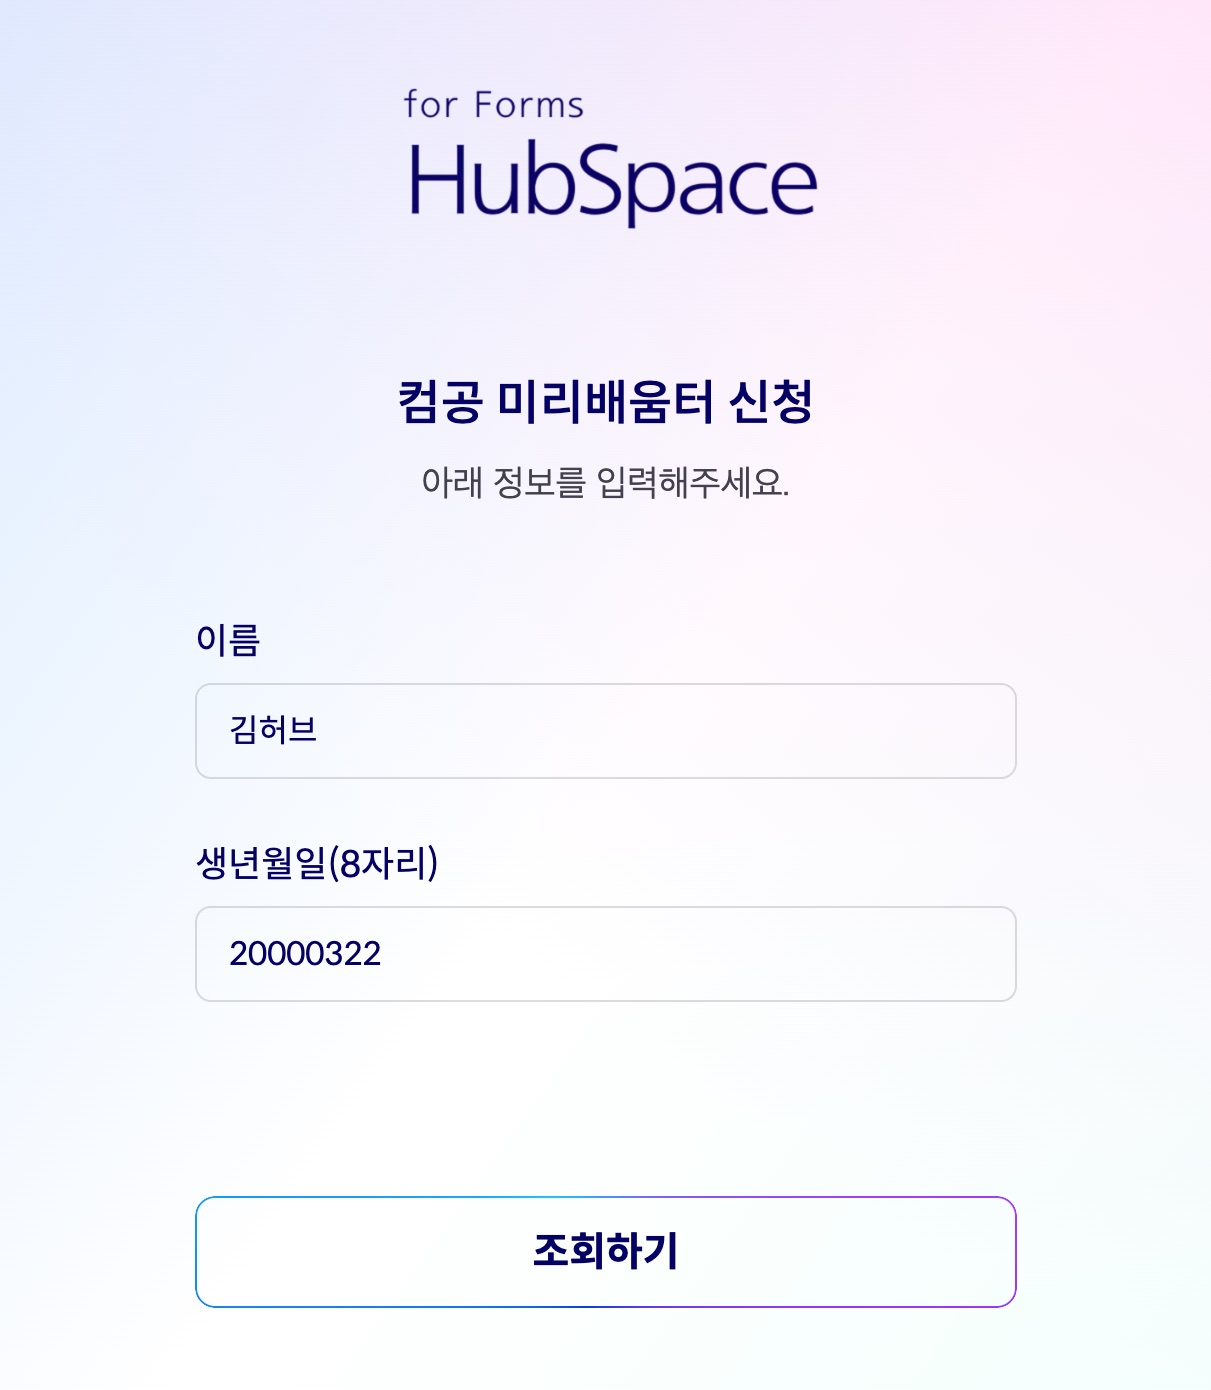
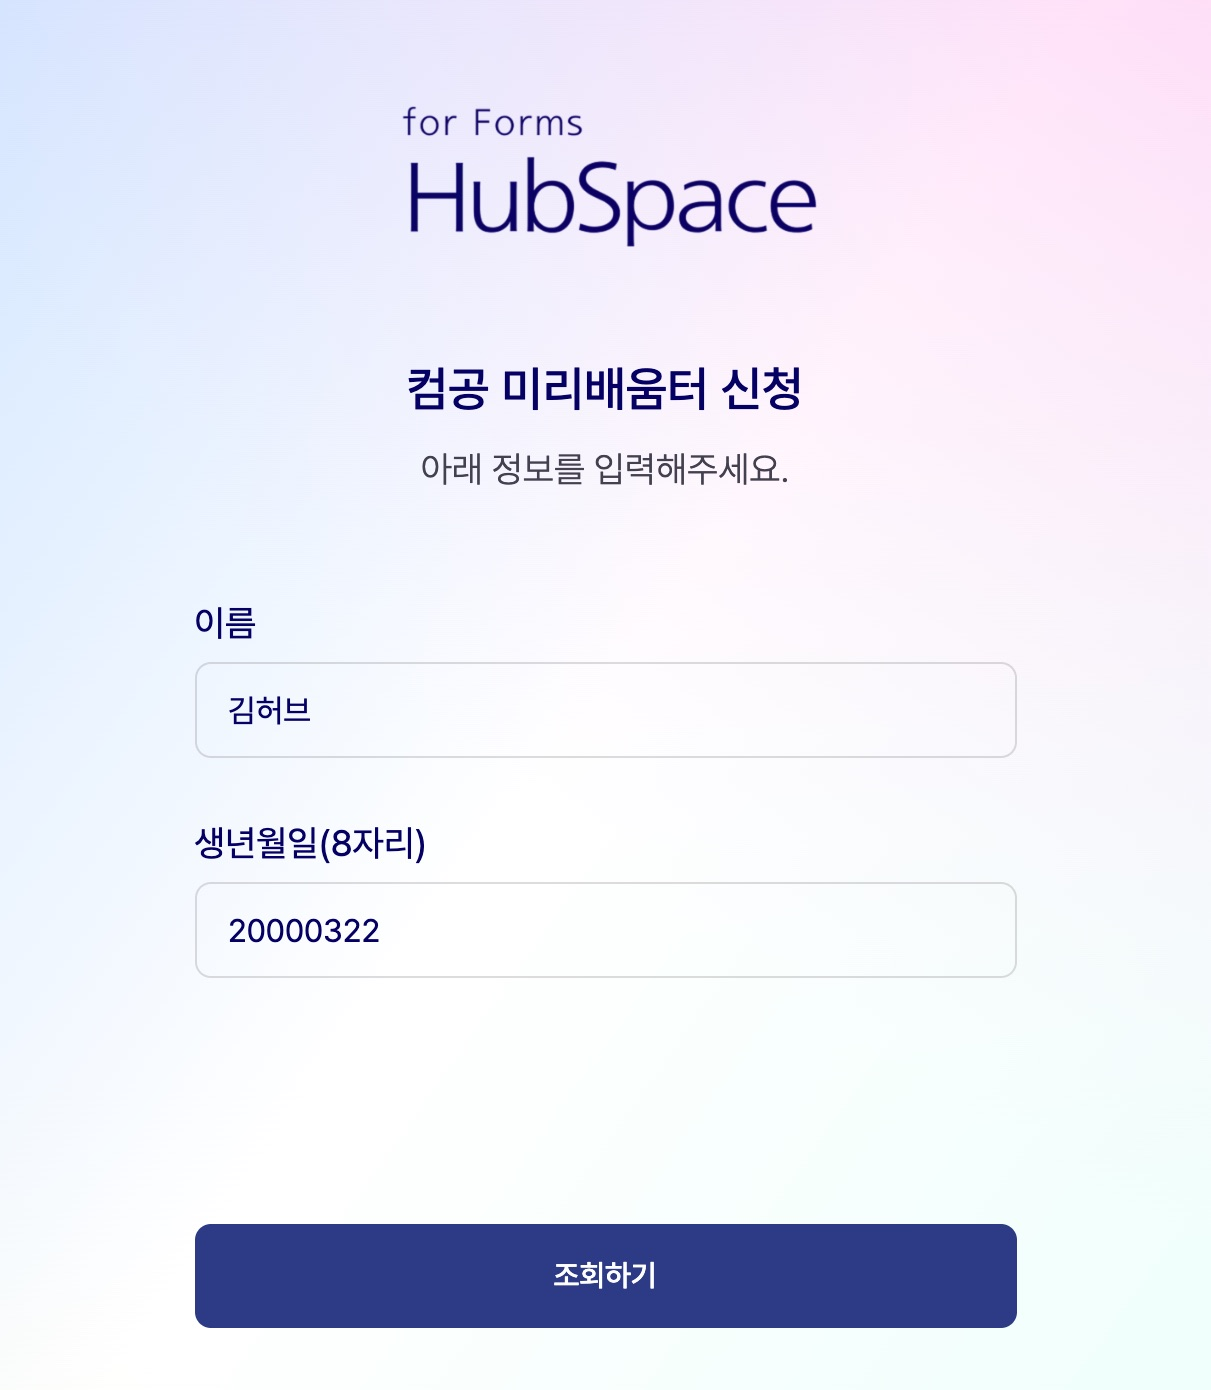
feat: 이용 방법 조회 예시 그림 다크 테마 대응
- 다크 테마에서는 다크 조회 화면·조회 결과를 같은 구도로 찍은 그림을 보여준다.
- 라이트 그림도 현재 조회 화면 디자인으로 다시 찍어 교체한다.

diff --git a/src/pages/guidePage/component/GuideMockups.jsx b/src/pages/guidePage/component/GuideMockups.jsx
@@ -9,6 +9,9 @@ import ArrowRightIcon from '../../../assets/guide/guide-arrow-right.svg?react'
 import ArrowDownIcon from '../../../assets/guide/guide-arrow-down.svg?react'
 import lookupScreenshot from '../../../assets/guide/guide-lookup.jpg'
 import resultScreenshot from '../../../assets/guide/guide-result.jpg'
+// 다크 테마용은 같은 내용을 다크 조회 화면에서 같은 구도로 찍은 그림이다.
+import lookupDarkScreenshot from '../../../assets/guide/guide-lookup-dark.jpg'
+import resultDarkScreenshot from '../../../assets/guide/guide-result-dark.jpg'
 
 // 이용 방법 단계마다 옆에 두는 화면 예시 (Figma 'Components – 이용 방법' 의 Guide Mockup).
 // 실제 화면을 단순하게 옮긴 그림이라 누를 수 없고, 화면 낭독기에서는 GuidePage 가 통째로 숨긴다.
@@ -66,13 +69,16 @@ function EventCard({ type, title }) {
 }
 
 // 조회 화면 → 조회 결과. 데스크탑은 가로, 모바일은 세로로 놓고 화살표도 그에 맞춰 바꾼다.
-export function LookupFlowMockup() {
+// 스크린샷은 테마마다 따로 찍어 두었다.
+export function LookupFlowMockup({ theme }) {
+  const isDark = theme === 'dark'
+
   return (
     <div className='guide-compare'>
       <div className='guide-shot'>
         <span className='guide-shot__label'>조회 화면</span>
         <div className='guide-shot__frame guide-shot__frame--lookup'>
-          <img src={lookupScreenshot} alt='' loading='lazy' decoding='async' />
+          <img src={isDark ? lookupDarkScreenshot : lookupScreenshot} alt='' loading='lazy' decoding='async' />
         </div>
       </div>
       <div className='guide-compare__arrow'>
@@ -86,7 +92,7 @@ export function LookupFlowMockup() {
       <div className='guide-shot'>
         <span className='guide-shot__label'>조회 결과</span>
         <div className='guide-shot__frame guide-shot__frame--result'>
-          <img src={resultScreenshot} alt='' loading='lazy' decoding='async' />
+          <img src={isDark ? resultDarkScreenshot : resultScreenshot} alt='' loading='lazy' decoding='async' />
         </div>
       </div>
     </div>

diff --git a/src/pages/guidePage/entry/GuidePage.jsx b/src/pages/guidePage/entry/GuidePage.jsx
@@ -152,7 +152,7 @@ export default function GuidePage() {
                   </div>
                   {/* 실제 화면을 옮긴 예시라 화면 낭독기에서는 숨긴다. 할 일은 왼쪽 글이 모두 설명한다. */}
                   <div className='guide-mockup' aria-hidden='true'>
-                    <step.Mockup />
+                    <step.Mockup theme={theme} />
                   </div>
                 </li>
               ))}
